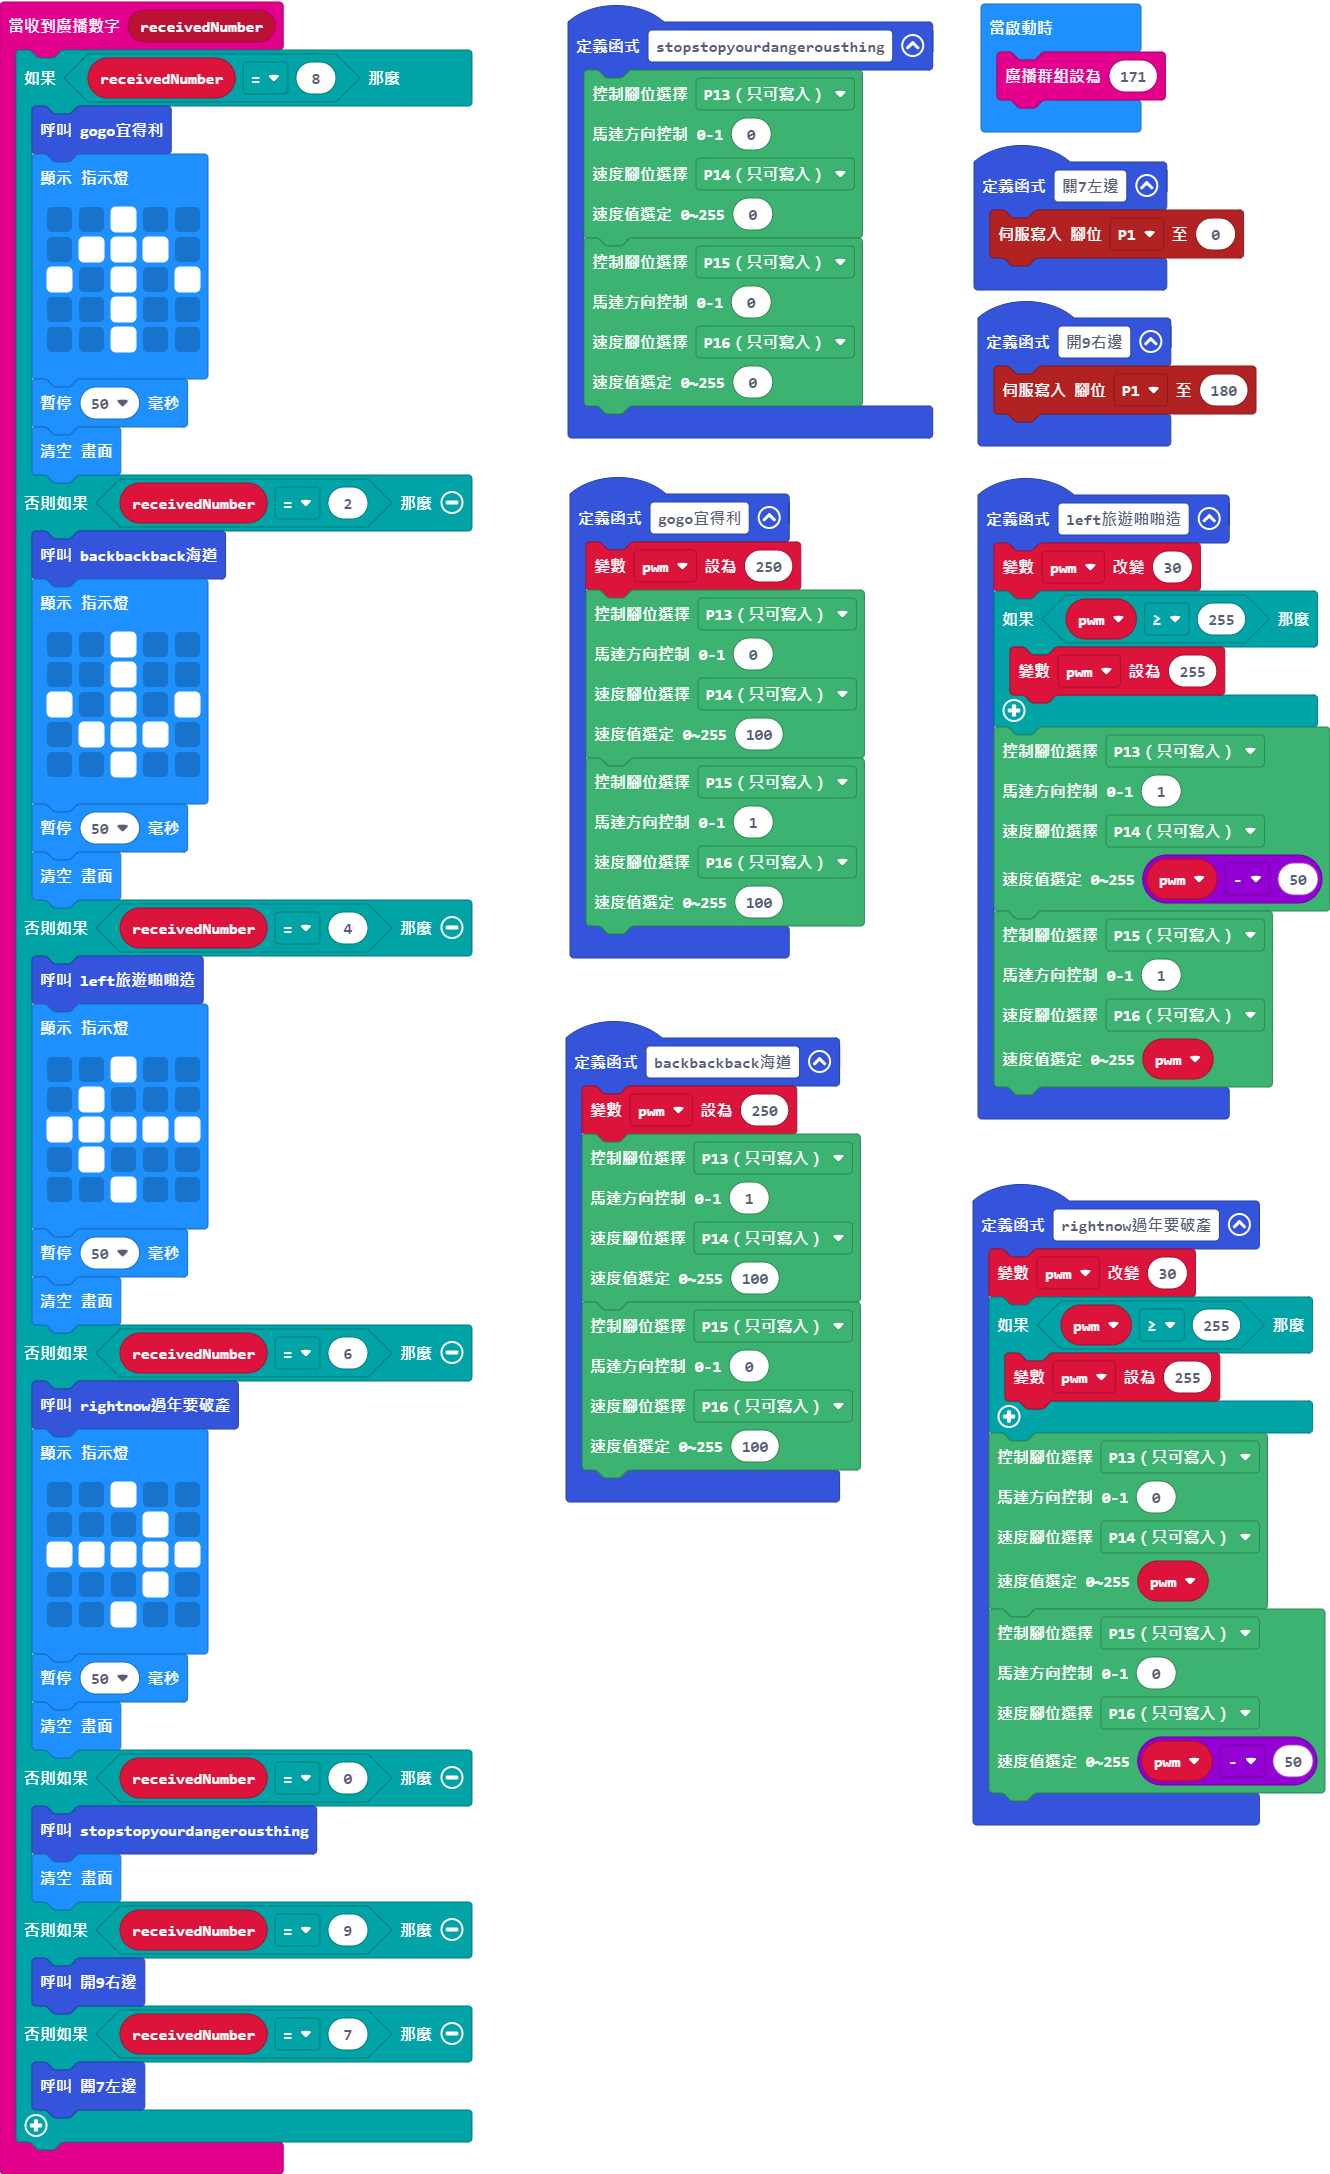
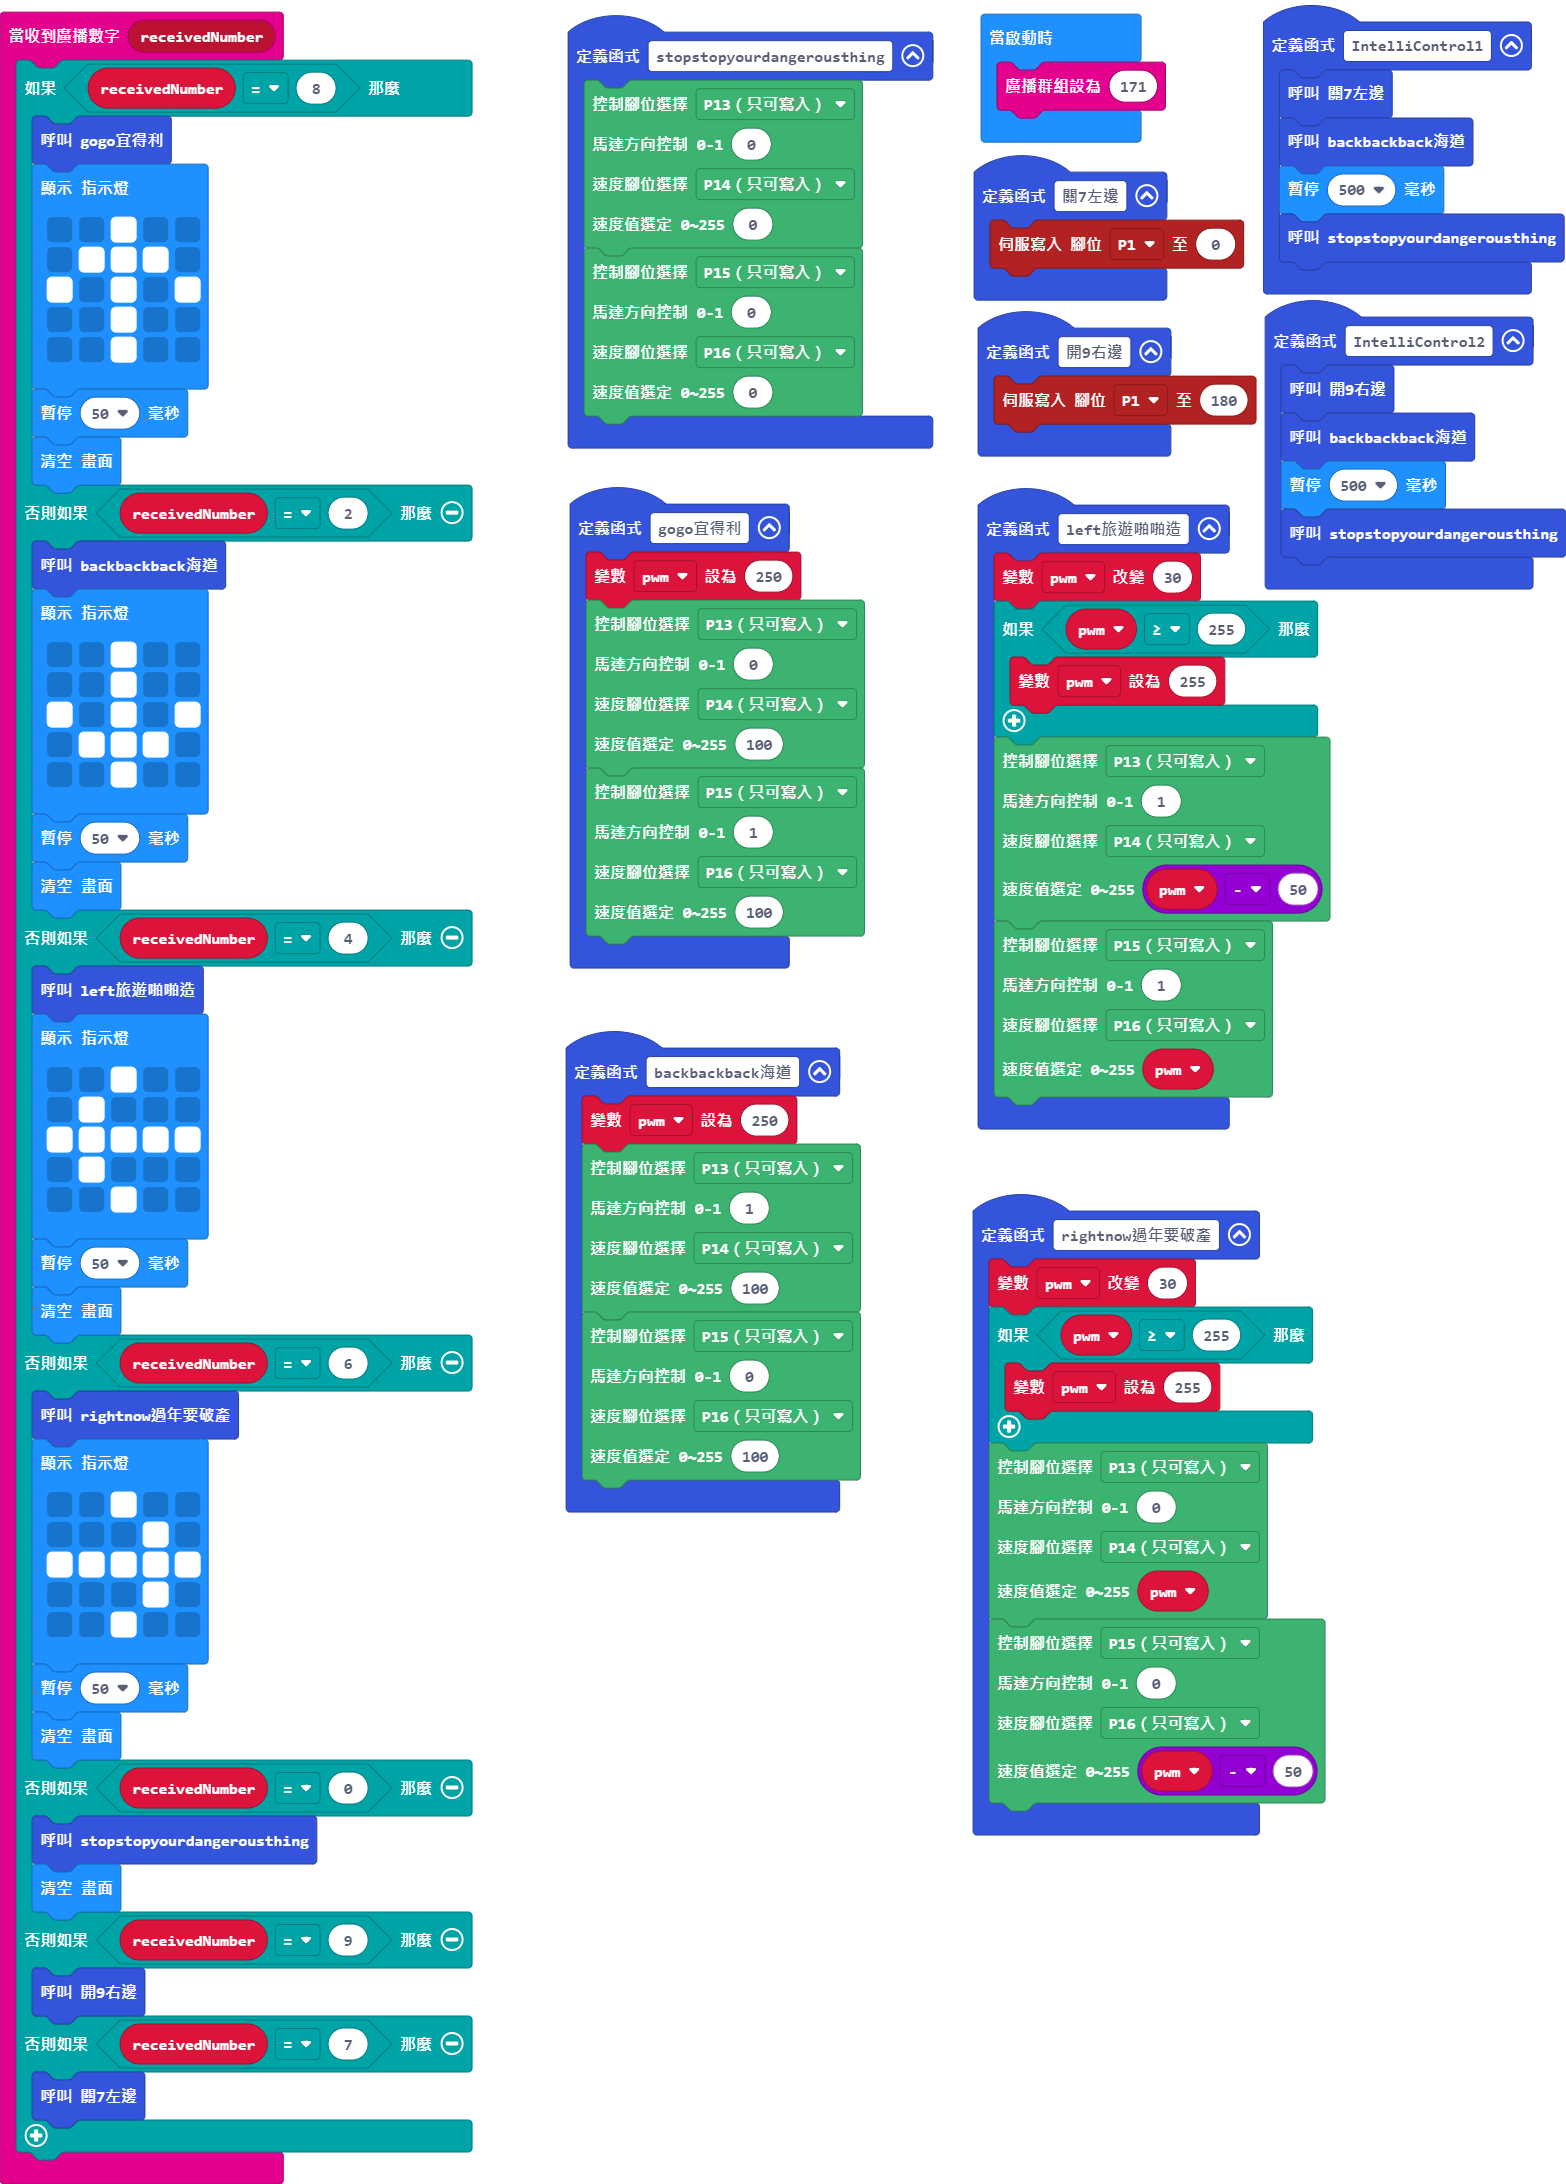
Add InteliContro

diff --git a/main.ts b/main.ts
@@ -88,6 +88,12 @@ function left旅遊啪啪造 () {
     pwm
     )
 }
+function IntelliControl2 () {
+    開9右邊()
+    backbackback海道()
+    basic.pause(500)
+    stopstopyourdangerousthing()
+}
 function stopstopyourdangerousthing () {
     sensors.DDMmotor(
     AnalogPin.P13,
@@ -104,6 +110,12 @@ function stopstopyourdangerousthing () {
 }
 function 關7左邊 () {
     pins.servoWritePin(AnalogPin.P1, 0)
+}
+function IntelliControl1 () {
+    關7左邊()
+    backbackback海道()
+    basic.pause(500)
+    stopstopyourdangerousthing()
 }
 function rightnow過年要破產 () {
     pwm += 30
